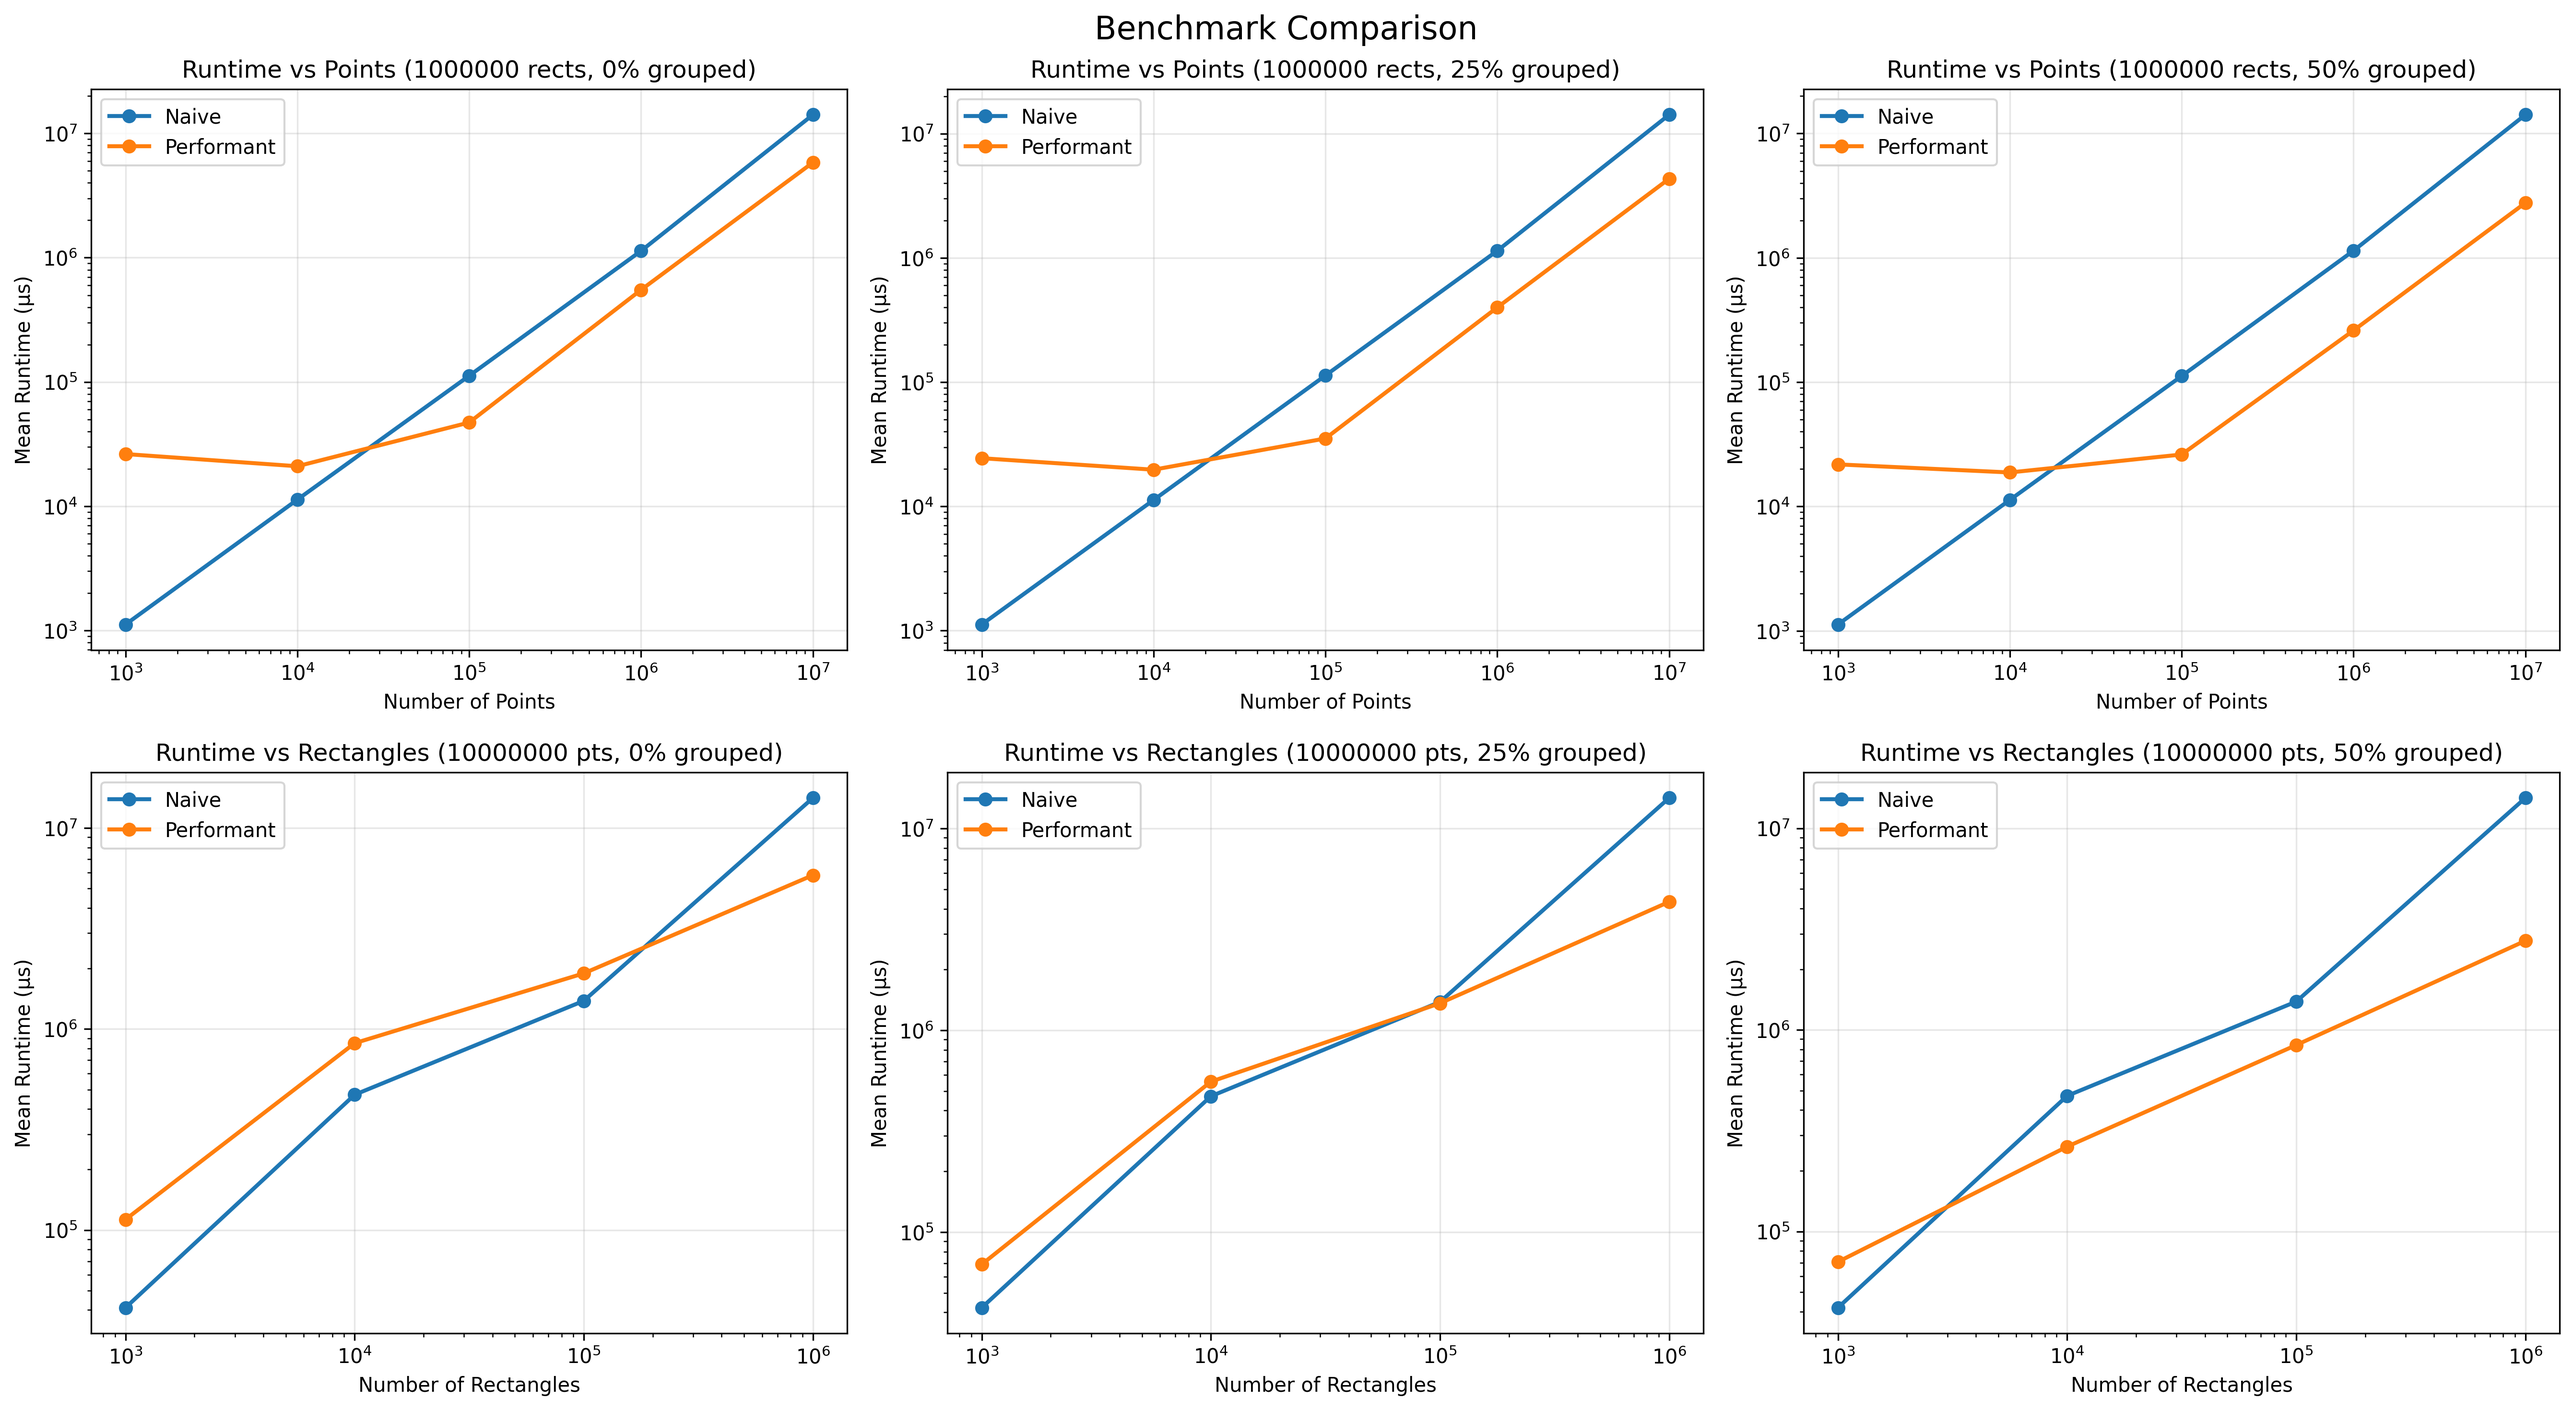
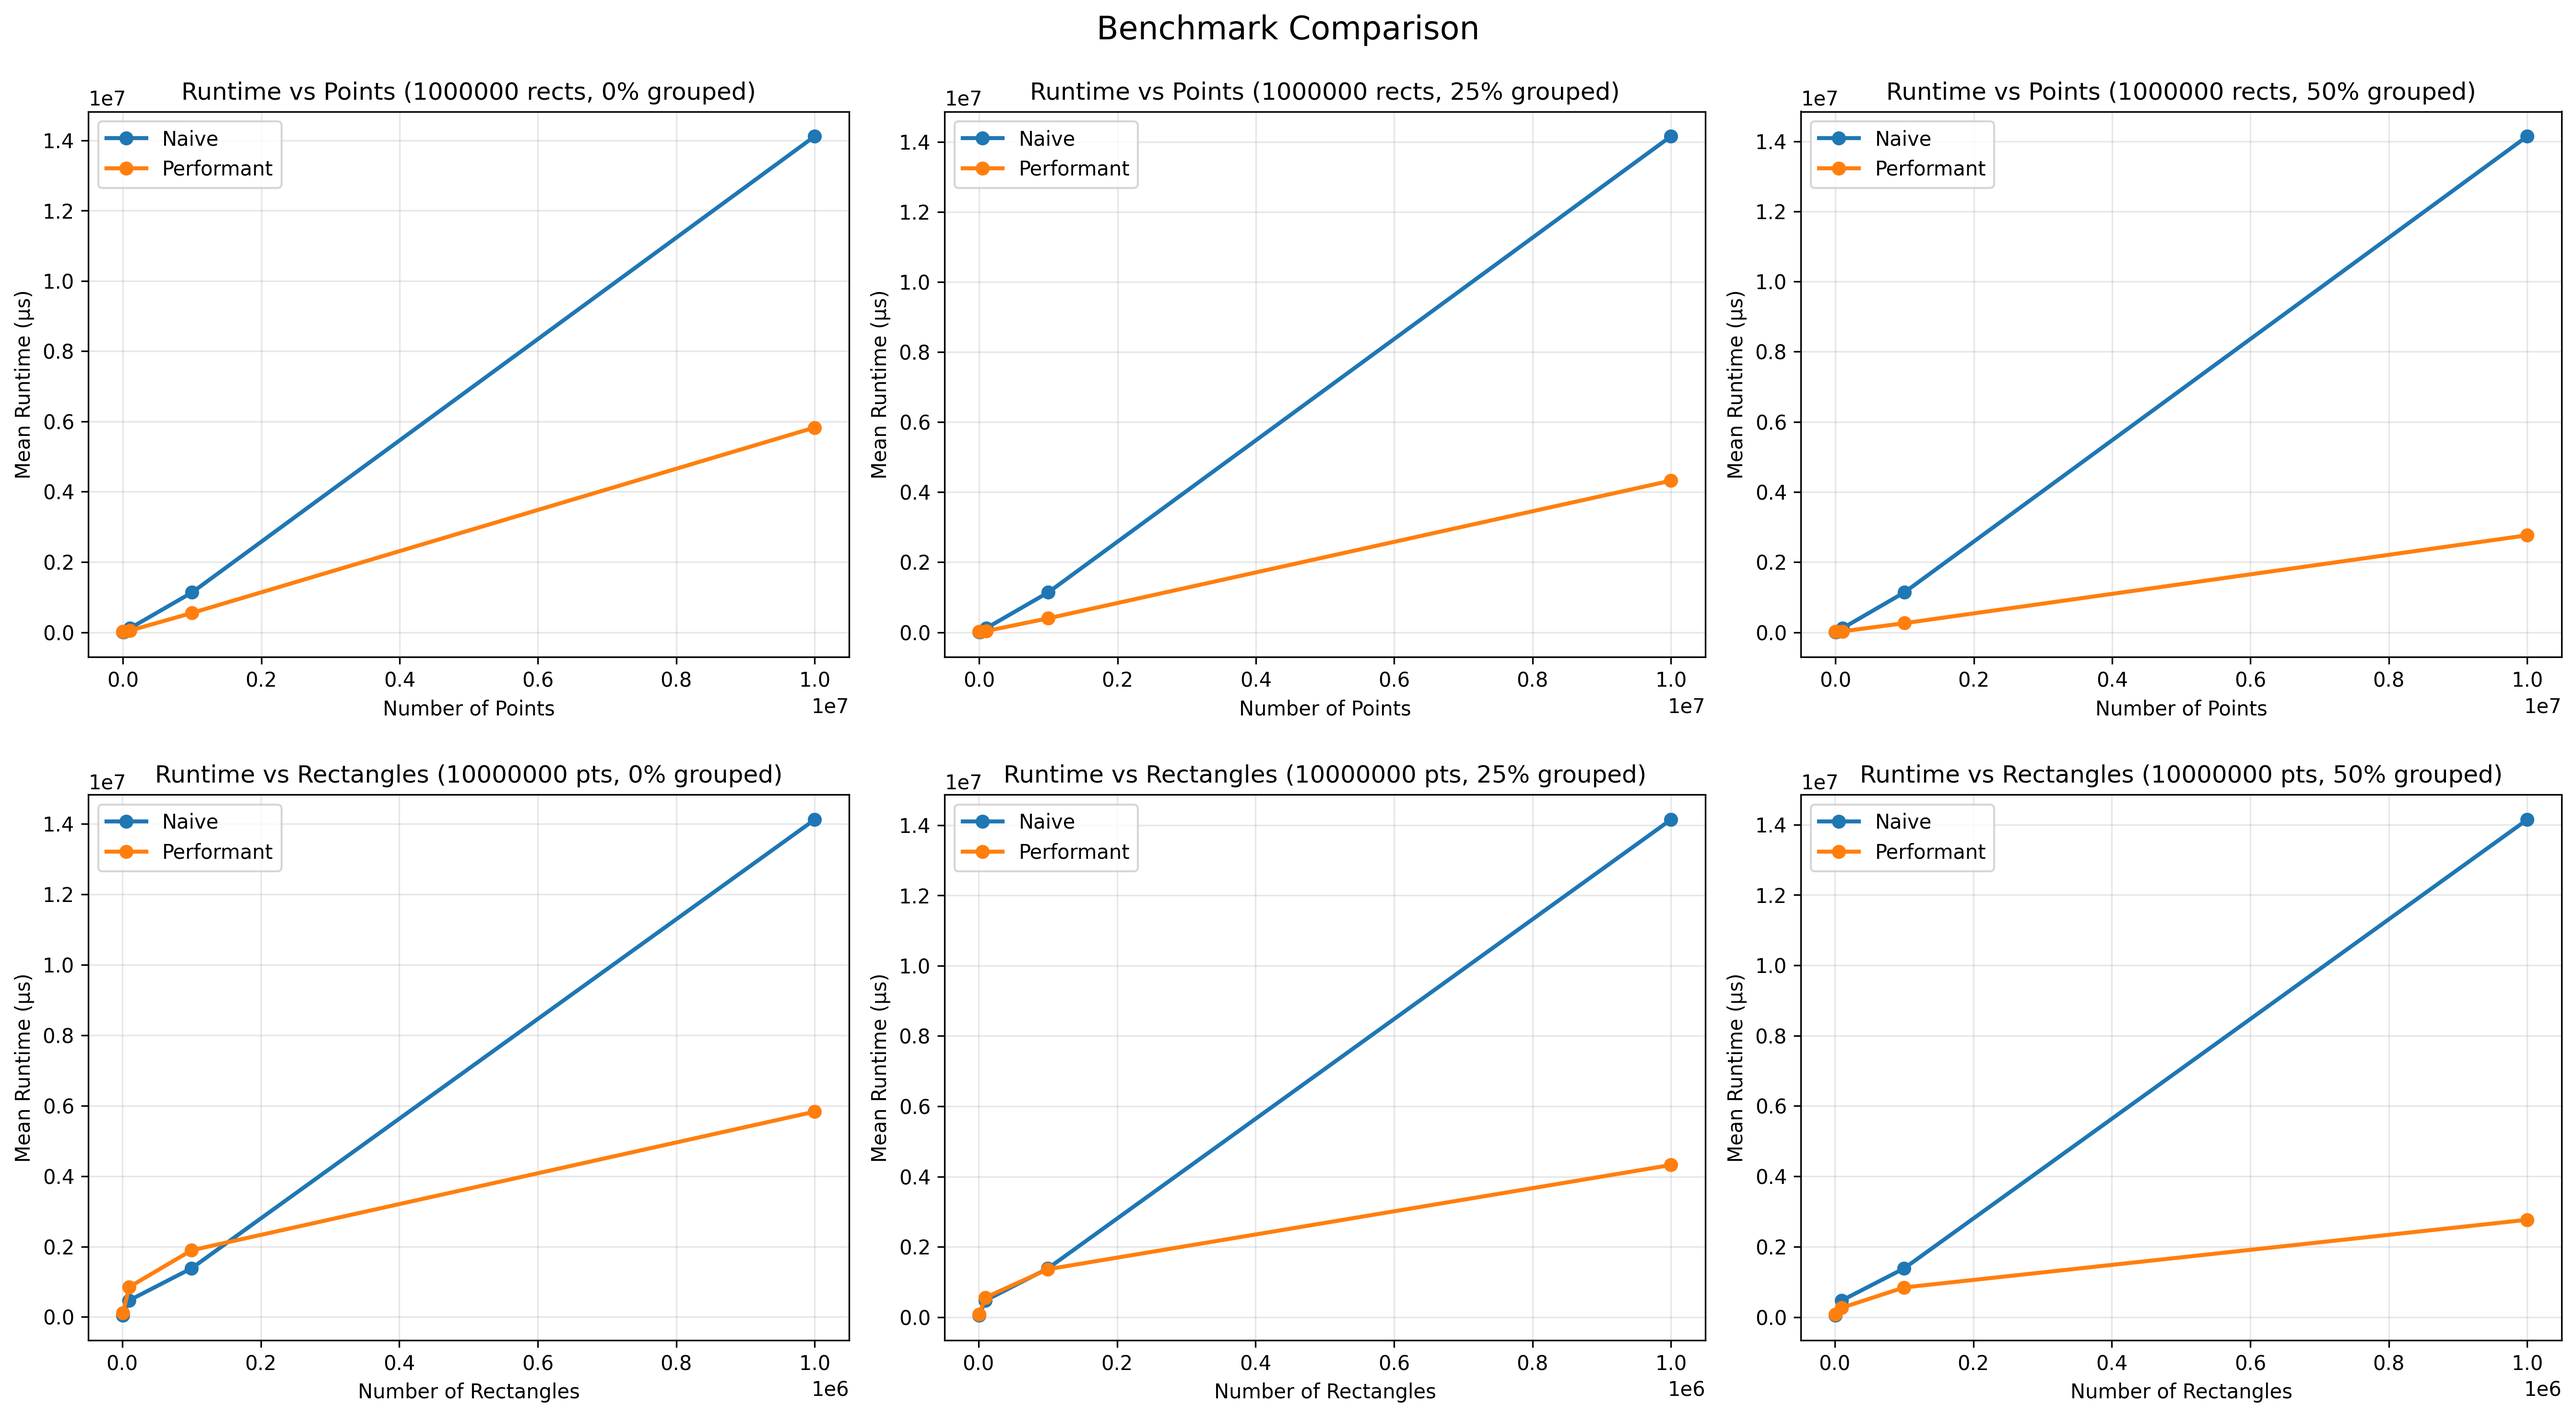
remove log scale for plotting

diff --git a/plot.py b/plot.py
@@ -87,8 +87,8 @@ def plot_runtime_by_points(data_dict, title="Runtime vs Number of Points", label
         ax.set_title(f'Grouping: {percent*100:.0f}%')
         ax.set_xlabel('Number of Points')
         ax.set_ylabel('Mean Runtime (microseconds)')
-        ax.set_xscale('log')
-        ax.set_yscale('log')
+        # ax.set_xscale('log')
+        # ax.set_yscale('log')
         ax.grid(True, alpha=0.3)
         
         # Get unique rectangle counts
@@ -134,8 +134,8 @@ def plot_runtime_by_rectangles(data_dict, title="Runtime vs Number of Rectangles
         ax.set_title(f'Grouping: {percent*100:.0f}%')
         ax.set_xlabel('Number of Rectangles')
         ax.set_ylabel('Mean Runtime (microseconds)')
-        ax.set_xscale('log')
-        ax.set_yscale('log')
+        # ax.set_xscale('log')
+        # ax.set_yscale('log')
         ax.grid(True, alpha=0.3)
         
         # Get unique point counts
@@ -175,8 +175,8 @@ def plot_comparison(data_dicts, labels, title="Runtime Comparison"):
         ax.set_title(f'Runtime vs Points (1000000 rects, {percent*100:.0f}% grouped)')
         ax.set_xlabel('Number of Points')
         ax.set_ylabel('Mean Runtime (μs)')
-        ax.set_xscale('log')
-        ax.set_yscale('log')
+        # ax.set_xscale('log')
+        # ax.set_yscale('log')
         ax.grid(True, alpha=0.3)
         
         for data_dict, label in zip(data_dicts, labels):
@@ -199,8 +199,8 @@ def plot_comparison(data_dicts, labels, title="Runtime Comparison"):
         ax.set_title(f'Runtime vs Rectangles (10000000 pts, {percent*100:.0f}% grouped)')
         ax.set_xlabel('Number of Rectangles')
         ax.set_ylabel('Mean Runtime (μs)')
-        ax.set_xscale('log')
-        ax.set_yscale('log')
+        # ax.set_xscale('log')
+        # ax.set_yscale('log')
         ax.grid(True, alpha=0.3)
         
         for data_dict, label in zip(data_dicts, labels):
